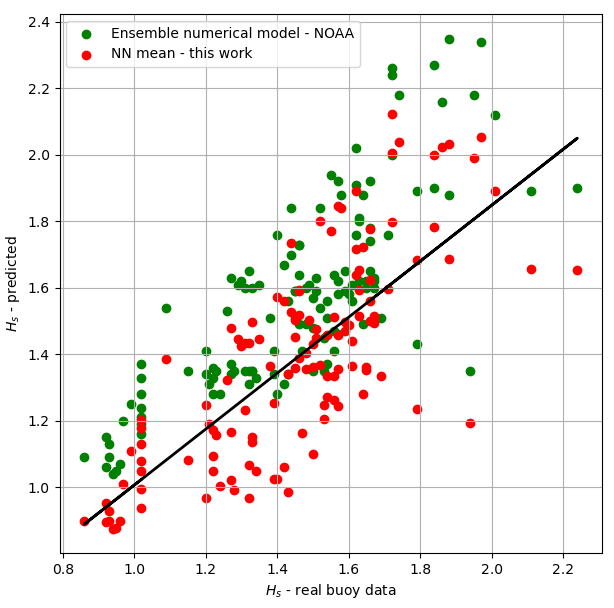
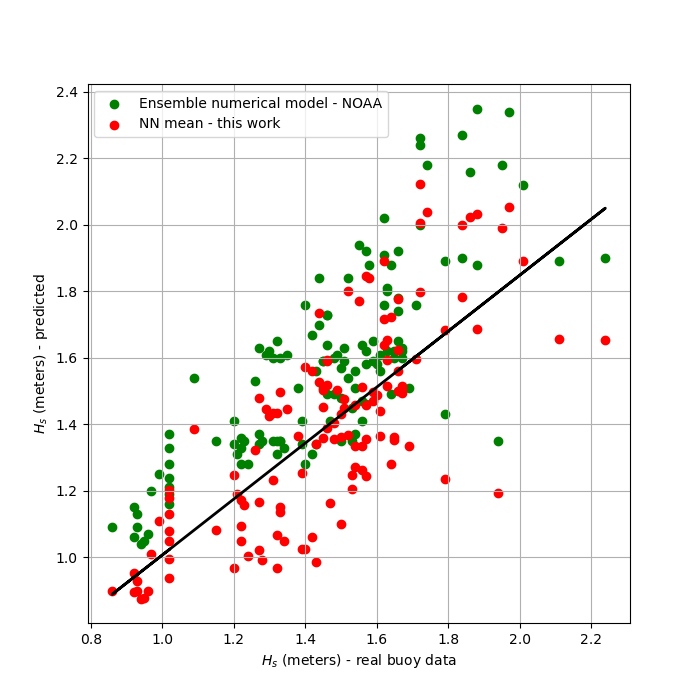
feat: create scatter plots

diff --git a/src/models/output_graph.py b/src/models/output_graph.py
@@ -537,8 +537,8 @@ def create_scatter(df_true, df_predict):
     plt.scatter(df_true['Hs_real_1'], df_predict['NN mean - this work'], label = 'NN mean - this work', color = 'red')
     plt.plot(df_true['Hs_real_1'], polyline(df_true['Hs_real_1']),color="black", linewidth=2, linestyle="-"),
     plt.legend()
-    plt.xlabel('$H_s$ - real buoy data')
-    plt.ylabel('$H_s$ - predicted')
+    plt.xlabel('$H_s$ (meters) - real buoy data')
+    plt.ylabel('$H_s$ (meters) - predicted')
 
 def get_metrics(data):
     dict_metrics     = {}
